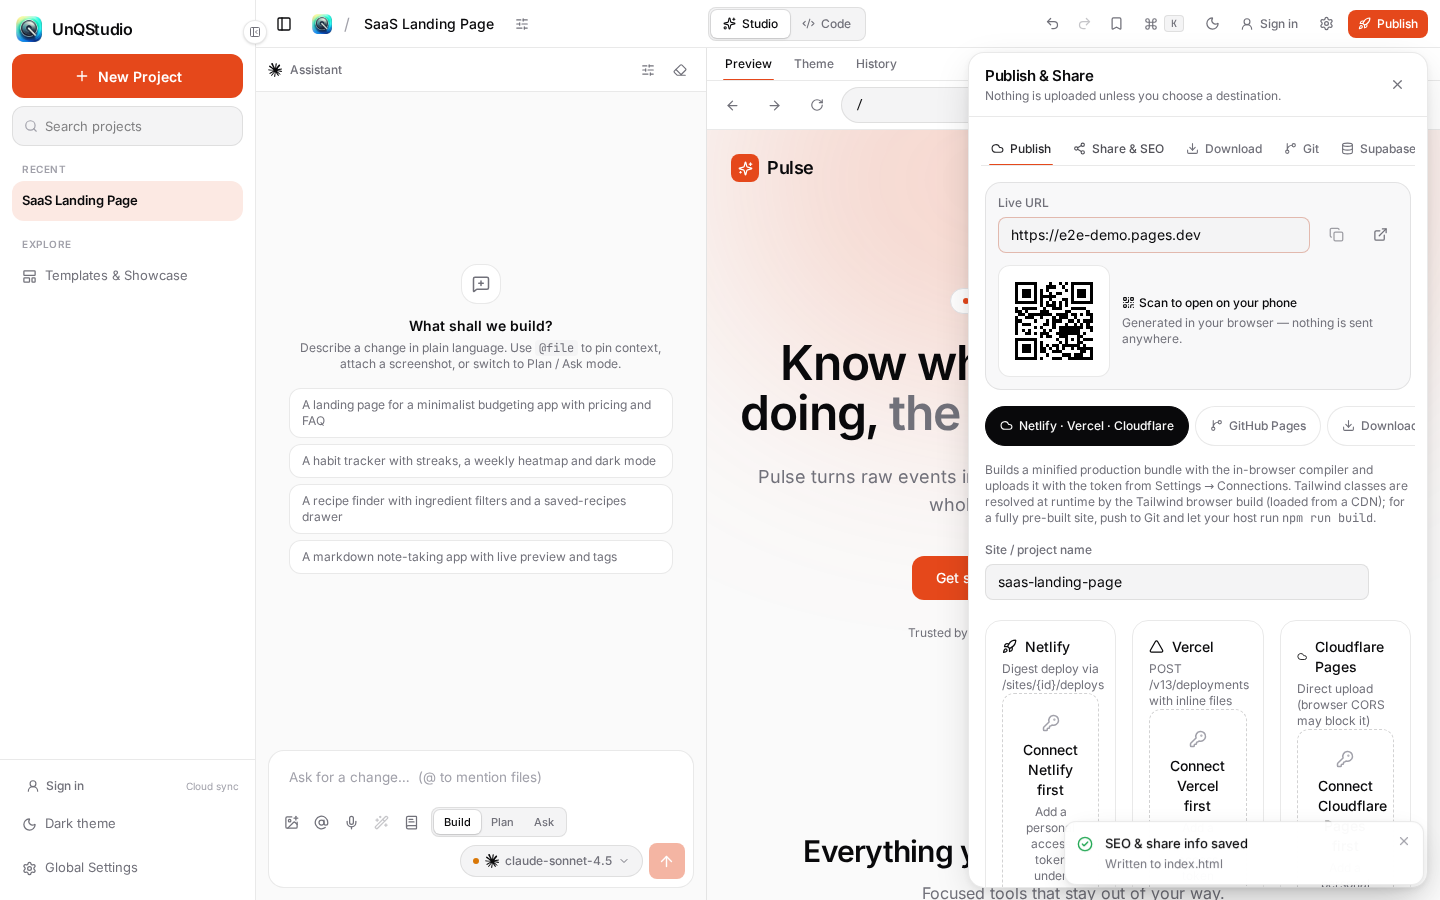
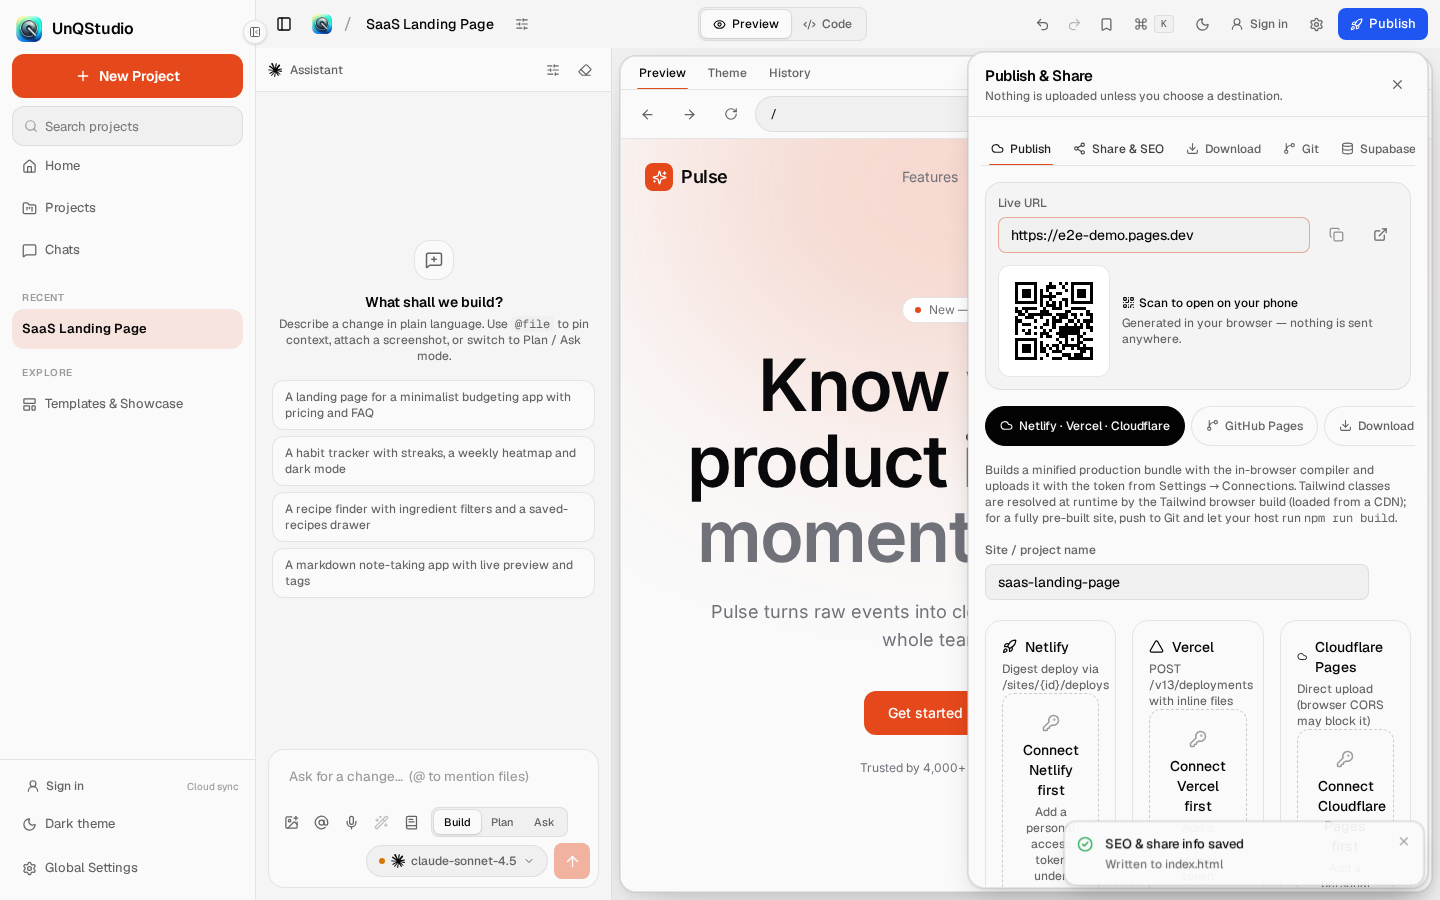
feat(v3.1-m6): 153-check mobile+desktop Chromium E2E, v31 screenshots, doc sync, release 3.1.0

diff --git a/src/ui/home/Home.tsx b/src/ui/home/Home.tsx
@@ -165,6 +165,7 @@ export default function Home() {
           <span className="text-[15px] font-semibold tracking-tight">UnQStudio</span>
           <Badge tone="accent" className="hidden sm:inline-flex">v3.1</Badge>
         </div>
+        <AccountAvatarButton />
       </header>
       )}
 
@@ -180,6 +181,12 @@ export default function Home() {
               <div className="scrollbar-none absolute inset-x-0 flex gap-2 overflow-x-auto px-4" style={{ bottom: 'calc(55dvh - var(--composer-height) - 14px - 52px)' }} data-starter-chips>
                 {STARTERS.map((c) => (
                   <button key={c.label} onClick={() => void start(c.prompt)} title={c.prompt} className="press flex h-9 shrink-0 items-center gap-1.5 rounded-full bg-primary/90 px-3.5 text-xs font-medium text-fg-secondary shadow-xs-surface backdrop-blur"><Wand2 size={12} className="text-accent" />{c.label}</button>
+                ))}
+              </div>
+              <div className="scrollbar-none absolute inset-x-0 flex items-center gap-2 overflow-x-auto px-4" style={{ bottom: 'calc(55dvh - var(--composer-height) - 14px - 100px)' }} data-template-chips>
+                <span className="shrink-0 text-xs text-fg-quaternary">Start from</span>
+                {templates.map((t) => (
+                  <button key={t.id} onClick={() => setTplId(t.id)} title={t.description} aria-pressed={tplId === t.id} className={cn('press flex h-8 shrink-0 items-center gap-1.5 rounded-full px-3 text-xs font-medium', tplId === t.id ? 'bg-fg-primary text-base' : 'bg-primary/90 text-fg-secondary shadow-xs-surface')}><TemplateIcon name={t.icon} size={13} />{t.name}</button>
                 ))}
               </div>
             </>

diff --git a/DOCS/08-IMPROVEMENTS-AND-ROADMAP.md b/DOCS/08-IMPROVEMENTS-AND-ROADMAP.md
@@ -71,3 +71,12 @@ Benchmarked against **Lovable.dev, v0.dev, Cursor and Claude Code**. Metrics wer
 - P0: opt-in CORS relay (`functions/api/proxy.ts`); provider-native tool calling behind the same `AgentDeps`; 10 s post-build runtime-error capture.
 - P1: type-aware symbol graph in a worker; multi-file inline refactor + ghost-text completion; recorded-fixture chat E2E; axe accessibility run in E2E; per-provider catalog shards.
 - P2: WebContainer-class runtime option; project share links (static viewer + read-only fork); Yjs collaboration on checkpoints; template marketplace via signed plugin registry.
+
+## v3.1 honest audit & v3.2 roadmap
+- **Permissions**: `Project edits` and `Publishing` are enforced (`gate()`); `Build / Auto-heal` and `Connectors` are stored and shown but not yet enforced inside the agent loop / connector calls (P1).
+- **Chats → Scheduled** has no scheduler yet (always empty); Unread is derived from last-opened time per project.
+- **Timeline Read steps** come from the transient agent-loop steps; they are not persisted across reloads (P1: persist agent steps on the message).
+- **Tips & tricks / Language** are stored preferences; no localized strings or tip surface ship yet.
+- **OKLCH**: the production CSS minifier rewrites `oklch()` to `lab()` (visually identical); tests compare resolved colours.
+- **Account switching** is local-profile only; real multi-account sessions need the optional OAuth providers.
+- Test environment needs Node ≥ 22 and (for E2E) Chromium system libraries.

diff --git a/DOCS/06-CHANGELOG-AND-ADRS.md b/DOCS/06-CHANGELOG-AND-ADRS.md
@@ -200,3 +200,9 @@ Rewriting 150+ components to new class names would risk regressions; aliasing `-
 
 ### ADR-019 Personalization context lives in core/ as a plain module
 `prompts.ts` must not import stores; the prefs store pushes into `core/ai/userContext.ts` on every change (`subscribe`).
+
+### V3.1-M6 — Chromium E2E, visual QA, release 3.1.0
+- `scripts/e2e.mjs`: 147 checks (v2.1/v3.0 suite adapted to the new shell + a v3.1 section: OKLCH tokens resolved by colour (the production CSS minifier serialises `oklch()` as `lab()`, so tokens are compared by resolved pixels, not text), Light/Dark, Dashboard Background, mobile pill dock, skeleton, Projects/Chats filters, scroll-snap swipe, preview bar, Timeline/Changes diff, Account settings, Connectors, inset desktop canvas, hover-only cards, zero overflow, zero console errors).
+- Fresh `DOCS/screenshots/v31-*.png` inspected; visual fixes: preview-bar pills no longer wrap, launchpad regained the template chip row.
+- Baseline repair: upstream commit `fdcf855` had overwritten `src/lib/qrcode.ts` with its test file; the implementation was restored and the jsqr-free test moved to `qrcode.test.ts`.
+- Release 3.1.0.

diff --git a/DOCS/01-SYSTEM-ARCHITECTURE.md b/DOCS/01-SYSTEM-ARCHITECTURE.md
@@ -98,3 +98,8 @@ Cloudflare Pages: `npm run build` → `dist/`; `functions/` compiled by Pages au
 - **AI**: `chat.send` (stream + apply) ← wrapped by `core/ai/agentLoop.ts` (read/search/verify tools, 1–5 steps) ← driven from `runHeal`. `buildProjectContext` injects Project Knowledge and a symbol map with local import edges.
 - **Preview bridge**: adds `thumb:capture`/`thumb` and `route:*`/`route` messages.
 - Layering unchanged: `ui → store → core`; `lib/qrcode.ts`, `lib/haptics.ts` are framework-free.
+
+## v3.1 additions
+- Routing: `#/` · `#/projects` · `#/chats` · `#/p/:id` (`store/app.ts`). Sheet host state `useApp.sheet`; Activity inspector `useApp.activity`.
+- Personalization: `store/prefs.ts` → `core/ai/userContext.ts` → `core/ai/prompts.ts` (Instructions, Memory, enabled Skills from IndexedDB `unq-skills`). Layering unchanged (core never imports store).
+- Message queue + completion chime live in `ui/chat/ChatPanel.tsx`; permission gate `gate()` guards project edits and publishing.

diff --git a/HANDOFF.md b/HANDOFF.md
@@ -1,6 +1,6 @@
 # HANDOFF
 
-**State:** V3.1-M5 complete (settings suite). Next: M6 E2E + visual QA. Read `AGENTS.md` then `DOCS/09-UIUX-MASTER-SPEC.md`.
+**State:** V3.1 complete (M1–M6) — all gates green (verify:docs, tsc, lint, 468+ unit tests, build, 147 E2E checks). Read `AGENTS.md`, then `DOCS/09-UIUX-MASTER-SPEC.md` and `DOCS/08` for the v3.2 roadmap.
 **Run everything:** `npm run verify:docs && npx tsc --noEmit && npm run lint && npm test && npm run build && npm run e2e`.
 **E2E environment:** needs `npx playwright install chromium` and the system libs (libnss3, libnspr4, libatk1.0-0, libatk-bridge2.0-0, libgbm1, libxkbcommon0, libasound2, libxi6, …). Without root, unpack the `.deb`s into a folder and export `LD_LIBRARY_PATH`.
 **Optional deployment config:** `VITE_SITE_URL` (custom domain; default https://unqstudio-cm.pages.dev), `VITE_GOOGLE_CLIENT_ID`, `GITHUB_CLIENT_ID`, `GITHUB_CLIENT_SECRET` (see `DOCS/05-AUTH-SEO-DEPLOY.md`).

diff --git a/DOCS/04-UI-AND-DESIGN-SYSTEM.md b/DOCS/04-UI-AND-DESIGN-SYSTEM.md
@@ -115,3 +115,6 @@ Mobile: `[data-snap-strip]` (`scroll-snap-type: x mandatory`, panes `chat`/`prev
 
 ## v3.1 settings (M5)
 Sheets: `account`, `accountSettings`, `connectors`, `workspaceSettings`, `appearance` via `useApp.sheet`. Persisted: `unq.prefs`, `unq.theme.*`, IndexedDB `unq-skills`.
+
+## v3.1 verification
+E2E (`npm run e2e`) captures `DOCS/screenshots/v31-{home-mobile,projects-mobile,chats-mobile,workspace-chat-mobile,timeline-changes,settings-appearance,home-desktop,studio-desktop}.png`.

diff --git a/PROGRESS.md b/PROGRESS.md
@@ -21,5 +21,6 @@
 | V3.1-M3 Swipe workspace, preview bar, inset canvas, chat polish | ✅ done |
 | V3.1-M4 Timeline | + Changes inspector, inline version cards | ✅ done |
 | V3.1-M5 Account menu, preferences, connectors hub, workspace settings | ✅ done |
+| V3.1-M6 Docs, 147-check Chromium E2E, visual QA, release 3.1.0 | ✅ done |
 
 Gates: verify:docs · tsc · lint · 440+ unit tests · build · 106 E2E checks. Unit tests need Node ≥ 22.

diff --git a/DOCS/02-CODEBASE-MAP.md b/DOCS/02-CODEBASE-MAP.md
@@ -2937,7 +2937,7 @@ Home screen (hero composer, templates, projects, About & FAQ).
 ### `src/ui/home/Home.tsx`
 
 **Purpose:** Lovable-style launchpad: ambient hero with floating composer, starter chips, thumbnail project grid with star/menu actions, and Templates & Showcase with category filter, Preview and Remix.  
-**Size:** 309 lines · React component module
+**Size:** 316 lines · React component module
 
 **Exports:**
 

diff --git a/CHANGELOG.md b/CHANGELOG.md
@@ -1,5 +1,8 @@
 # Changelog
 
+## v3.1.0
+- Full release: OKLCH depth system, Aurora backgrounds, native mobile nav, swipe workspace, Timeline | + Changes, Account/Connectors/Workspace settings. 147-check E2E.
+
 - **M5** Account menu, preferences (queue/sound), personalization, permissions, connectors hub, workspace settings.
 
 - **M4** Timeline | + Changes inspector, Used X tools row, Details/Preview version cards.
